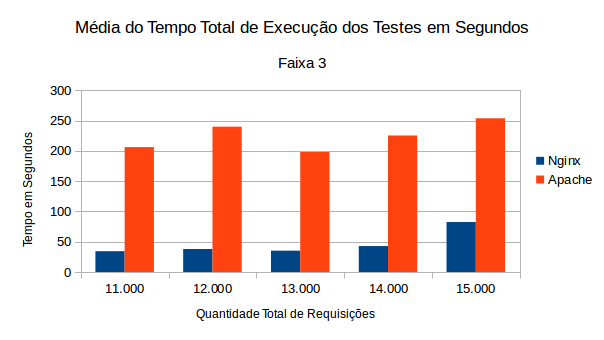
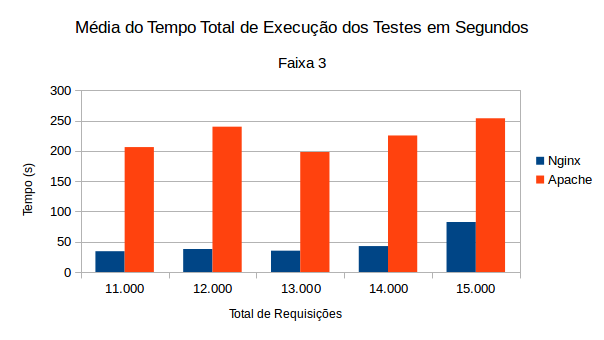
separando os graficos e as análises do arquivo de análise

diff --git a/graficos/graficos.tex b/graficos/graficos.tex
@@ -1,108 +1,102 @@
 \section{Gráficos}
+Nessa seção será apresentado todos os gráficos gerados a partir dos dados 
+coletados. A análise dos dados será feita na seção 
+\ref{sec:analise-dos-dados}.\\
 Todos os gráficos foram gerados usando a ferramenta de geração de gráfico do 
 \citeonline{LOcalc}.
+% %GRAFICO 1
 \subsection{Média do Tempo Total de Execução Dos Testes}
-\subsubsection{Faixa 1}
 
-blabla
-\begin{figure}[htb]
+\begin{figure}[H]
 	\centering
-	\includegraphics[width=0.6\linewidth]{graficos/grafico1-f1} 
+	\includegraphics[width=1\linewidth]{graficos/grafico1-f1} 
 	\caption{Média do Tempo Total de Execução dos Testes - Faixa 1}
 	\label{fig:grafico1-f1}
 \end{figure}
 
-blabla
-
-\subsubsection{Faixa 2}
-blabla
-
-\begin{figure}[htb]
+\begin{figure}[H]
 	\centering
-	\includegraphics[width=0.6\linewidth]{graficos/grafico1-f2} 
+	\includegraphics[width=1\linewidth]{graficos/grafico1-f2} 
 	\caption{Média do Tempo Total de Execução dos Testes - Faixa 2}
 	\label{fig:grafico1-f2}
 \end{figure}
-blabla
 
-\subsubsection{Faixa 3}
-blabla
-
-\begin{figure}[htb]
+\begin{figure}[H]
 	\centering
-	\includegraphics[width=0.6\linewidth]{graficos/grafico1-f3} 
+	\includegraphics[width=1\linewidth]{graficos/grafico1-f3} 
 	\caption{Média do Tempo Total de Execução dos Testes - Faixa 3}
 	\label{fig:grafico1-f3}
 \end{figure}
-blabla
 
-
-\subsection{Média da Quantidade Total de Dados Transmitidos}
-\subsubsection{Faixa 1}
-
-blabla
-\begin{figure}[htb]
+\begin{figure}[H]
 	\centering
-	\includegraphics[width=0.6\linewidth]{graficos/grafico2-f1} 
-	\caption{Média do Total de Dados Transferidos - Faixa 1}
+	\includegraphics[width=1\linewidth]{graficos/grafico1} 
+	\caption{Média do Tempo Total de Execução dos Testes}
+	\label{fig:grafico1}
+\end{figure}
+
+
+% %GRAFICO 2
+\subsection{Média do Total de Dados Transferido}
+\begin{figure}[H]
+	\centering
+	\includegraphics[width=1\linewidth]{graficos/grafico2-f1} 
+	\caption{Média do Total de Dados Transferido - Faixa 1}
 	\label{fig:grafico2-f1}
 \end{figure}
 
-blabla
-
-\subsubsection{Faixa 2}
-blabla
-
-\begin{figure}[htb]
+\begin{figure}[H]
 	\centering
-	\includegraphics[width=0.6\linewidth]{graficos/grafico2-f2} 
-	\caption{Média do Total de Dados Transferidos - Faixa 2}
+	\includegraphics[width=1\linewidth]{graficos/grafico2-f2} 
+	\caption{Média do Total de Dados Transferido - Faixa 2}
 	\label{fig:grafico2-f2}
 \end{figure}
-blabla
 
-\subsubsection{Faixa 3}
-blabla
-
-\begin{figure}[htb]
+\begin{figure}[H]
 	\centering
-	\includegraphics[width=0.6\linewidth]{graficos/grafico2-f3} 
-	\caption{Média do Total de Dados Transferidos - Faixa 3}
+	\includegraphics[width=1\linewidth]{graficos/grafico2-f3} 
+	\caption{Média do Total de Dados Transferido - Faixa 3}
 	\label{fig:grafico2-f3}
 \end{figure}
-blabla
 
-\subsection{Média da Quantidade de Texto HTML Transmitido}
-\subsubsection{Faixa 1}
-
-blabla
-\begin{figure}[htb]
+\begin{figure}[H]
 	\centering
-	\includegraphics[width=0.6\linewidth]{graficos/grafico3-f1} 
-	\caption{Média do Total de Texto em HTML Transferido - Faixa 1}
-	\label{fig:grafico3-f1}
+	\includegraphics[width=1\linewidth]{graficos/grafico2} 
+	\caption{Média do Total de Dados Transferido}
+	\label{fig:grafico2}
 \end{figure}
 
-blabla
-
-\subsubsection{Faixa 2}
-blabla
-
+\begin{comment}
+% %GRAFICO 3
+\subsection{3}
 \begin{figure}[htb]
 	\centering
-	\includegraphics[width=0.6\linewidth]{graficos/grafico3-f2} 
-	\caption{Média do Total de Texto em HTML Transferido - Faixa 2}
-	\label{fig:grafico3-f2}
+	\includegraphics[width=1\linewidth]{graficos/grafico3-f1} 
+	\caption{ - Faixa 1}
+	\label{fig:grafico-f1}
 \end{figure}
-blabla
-
-\subsubsection{Faixa 3}
-blabla
 
 \begin{figure}[htb]
 	\centering
-	\includegraphics[width=0.6\linewidth]{graficos/grafico3-f3} 
-	\caption{Média do Total de Texto em HTML Transferido - Faixa 3}
-	\label{fig:grafico3-f3}
+	\includegraphics[width=1\linewidth]{graficos/grafico3-f2} 
+	\caption{ - Faixa 2}
+	\label{fig:grafico-f2}
 \end{figure}
-blabla
+
+\begin{figure}[htb]
+	\centering
+	\includegraphics[width=1\linewidth]{graficos/grafico3-f3} 
+	\caption{ - Faixa 3}
+	\label{fig:grafico-f3}
+\end{figure}
+
+\begin{figure}[htb]
+	\centering
+	\includegraphics[width=1\linewidth]{graficos/grafico3} 
+	\caption{}
+	\label{fig:grafico}
+\end{figure}
+\end{comment}
+
+
+

diff --git a/textuais/analise-dos-dados.tex b/textuais/analise-dos-dados.tex
@@ -11,38 +11,38 @@ Os gráficos serão divididos em 3 faixas de valores para a quantidade total de 
 	\item[Faixa 2] Entre 6.000 e 10.000 requisições totais;
 	\item[Faixa 3] Entre 11.000 e 15.000 requisições totais;
 \end{itemize}
+Além dos dados agrupados em faixas, será exibido também um gráfico geral com 
+todos as médias dos quinze testes.
 Os dados serão analisados sempre comparando os resultados obtidos pelos dois servidores HTTP.\\
 
 \section{Dados Analisados}
 Os dados que serão analisados são:
-
 \begin{itemize}
-	\item Tempo total do teste em segundos (s); %grafico1 ok
+	\item Tempo total de execução do teste em segundos (s); %grafico1 ok
 	\item Total de dados transferido em Quilo bytes (Kbytes); %%grafico2 ok
 	\item Total de texto em HTML transferido em Quilo bytes (Kbytes); 
 	%%grafico3 ok
-	\item Número de requisições atendidas por segundo (X/s); %%grafico4 ok
+	\item Número de requisições atendidas por segundo (N/s); %%grafico4 ok
 	\item Tempo médio por requisição entre as requisições concorrentes em 
 	milissegundos (ms); %gráfico5 ok
 	\item Taxa de transferência em Quilo Bytes por segundo (Kb/s); %grafico6 
 	%quase ok
 	\item Porcentagem das requisições servidas em um período de tempo, tempo em 
-	milissegundos (X\%ms). %grafico 7
+	milissegundos (X\%/ms). %grafico 7
 \end{itemize}
-
-Dos dados analisados, os mais críticos são:
-
+Dos dados analisados, os mais críticos para compara o desempenho são:
 \begin{itemize}
 	\item Total de texto em HTML transferido em bytes (b);
-	\item Número de requisições atendidas por segundo (X/s);
+	\item Número de requisições atendidas por segundo (N/s);
 	\item Tempo médio por requisição entre as requisições concorrentes em 
 	milissegundos (ms);
 	\item Taxa de transferência em Quilo Bytes por segundo (Kb/s);
-	\item Porcentagem das requisições servidas em um período de tempo, tempo em milissegundos (X\%ms).
+	\item Porcentagem das requisições servidas em um período de tempo, tempo em 
+	milissegundos (X\%/ms).
 \end{itemize}
-
 Como foram coletados dados com 10\%, 20\%, 40\% e 80\%, os gráficos serão 
-criados utilizando as médias dos valores coletados, desprezando para o cálculo 
-da média os testes feitos com uma requisição concorrente.
+criados utilizando as médias dos valores coletados.
 
 \input{graficos/graficos}
+
+\input{textuais/sec-analise-dos-dados}

diff --git a/textuais/sec-analise-dos-dados.tex b/textuais/sec-analise-dos-dados.tex
@@ -1,0 +1,1 @@
+\section{Análise dos Dados}\label{sec:analise-dos-dados}
